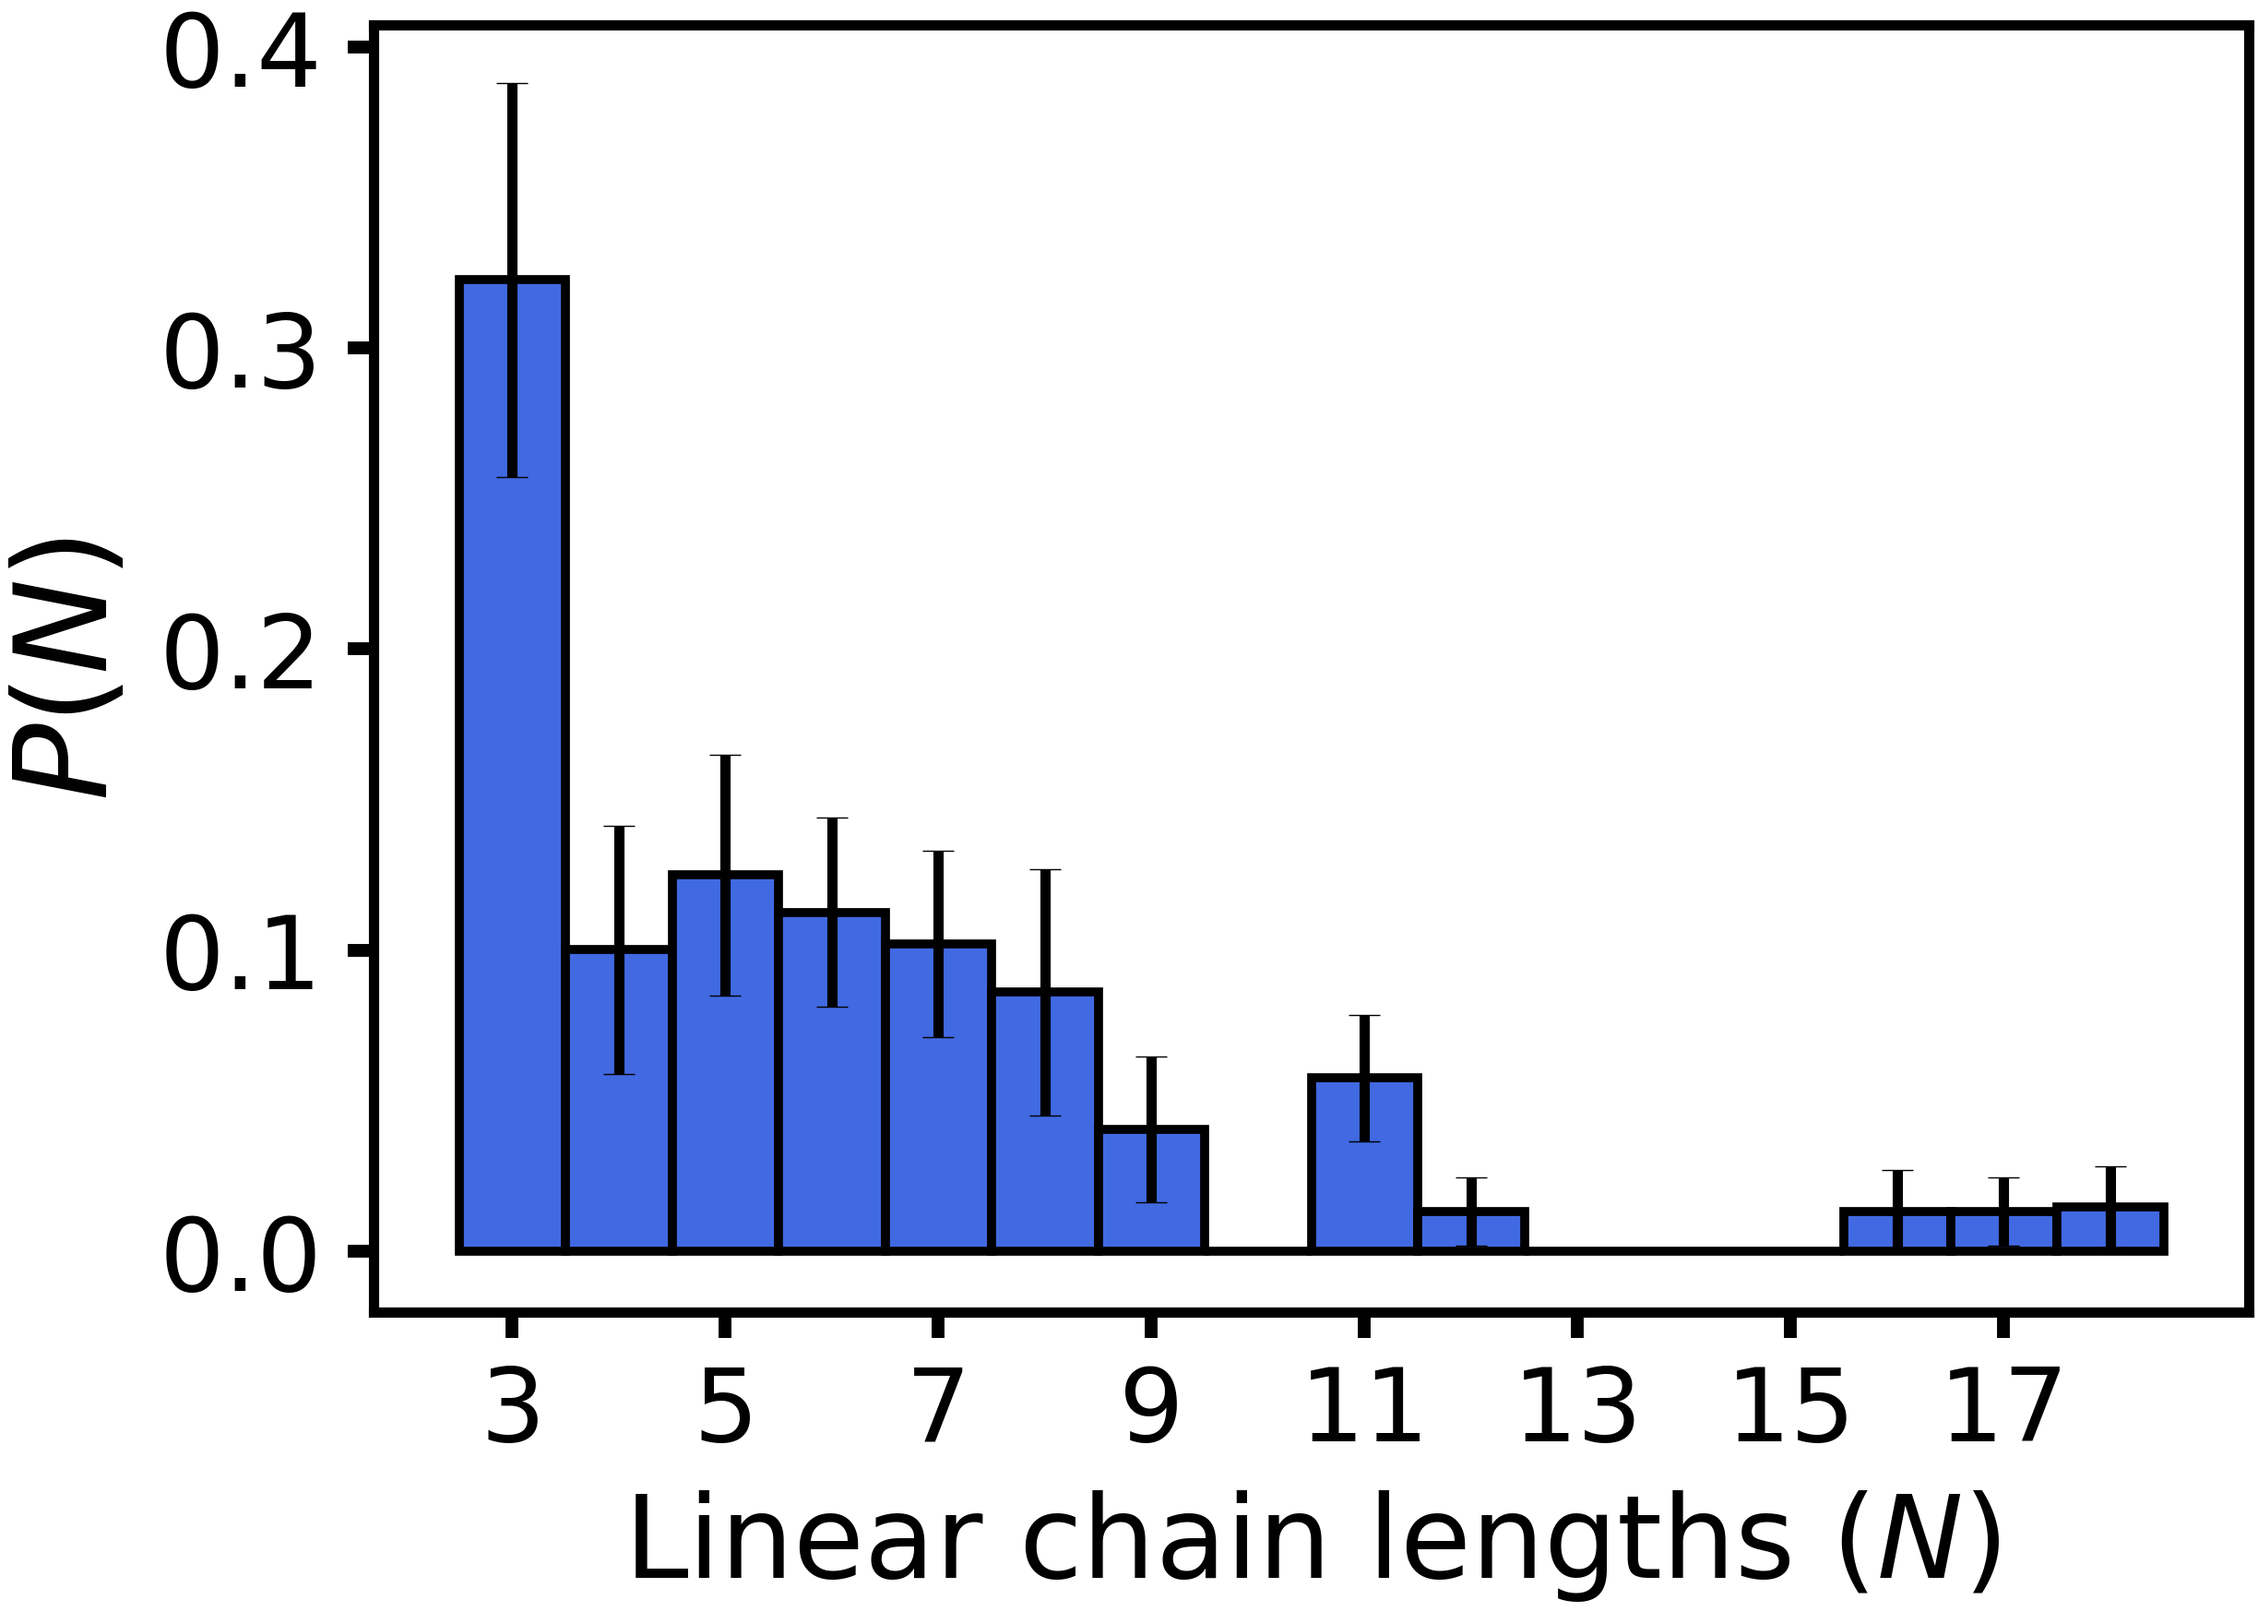
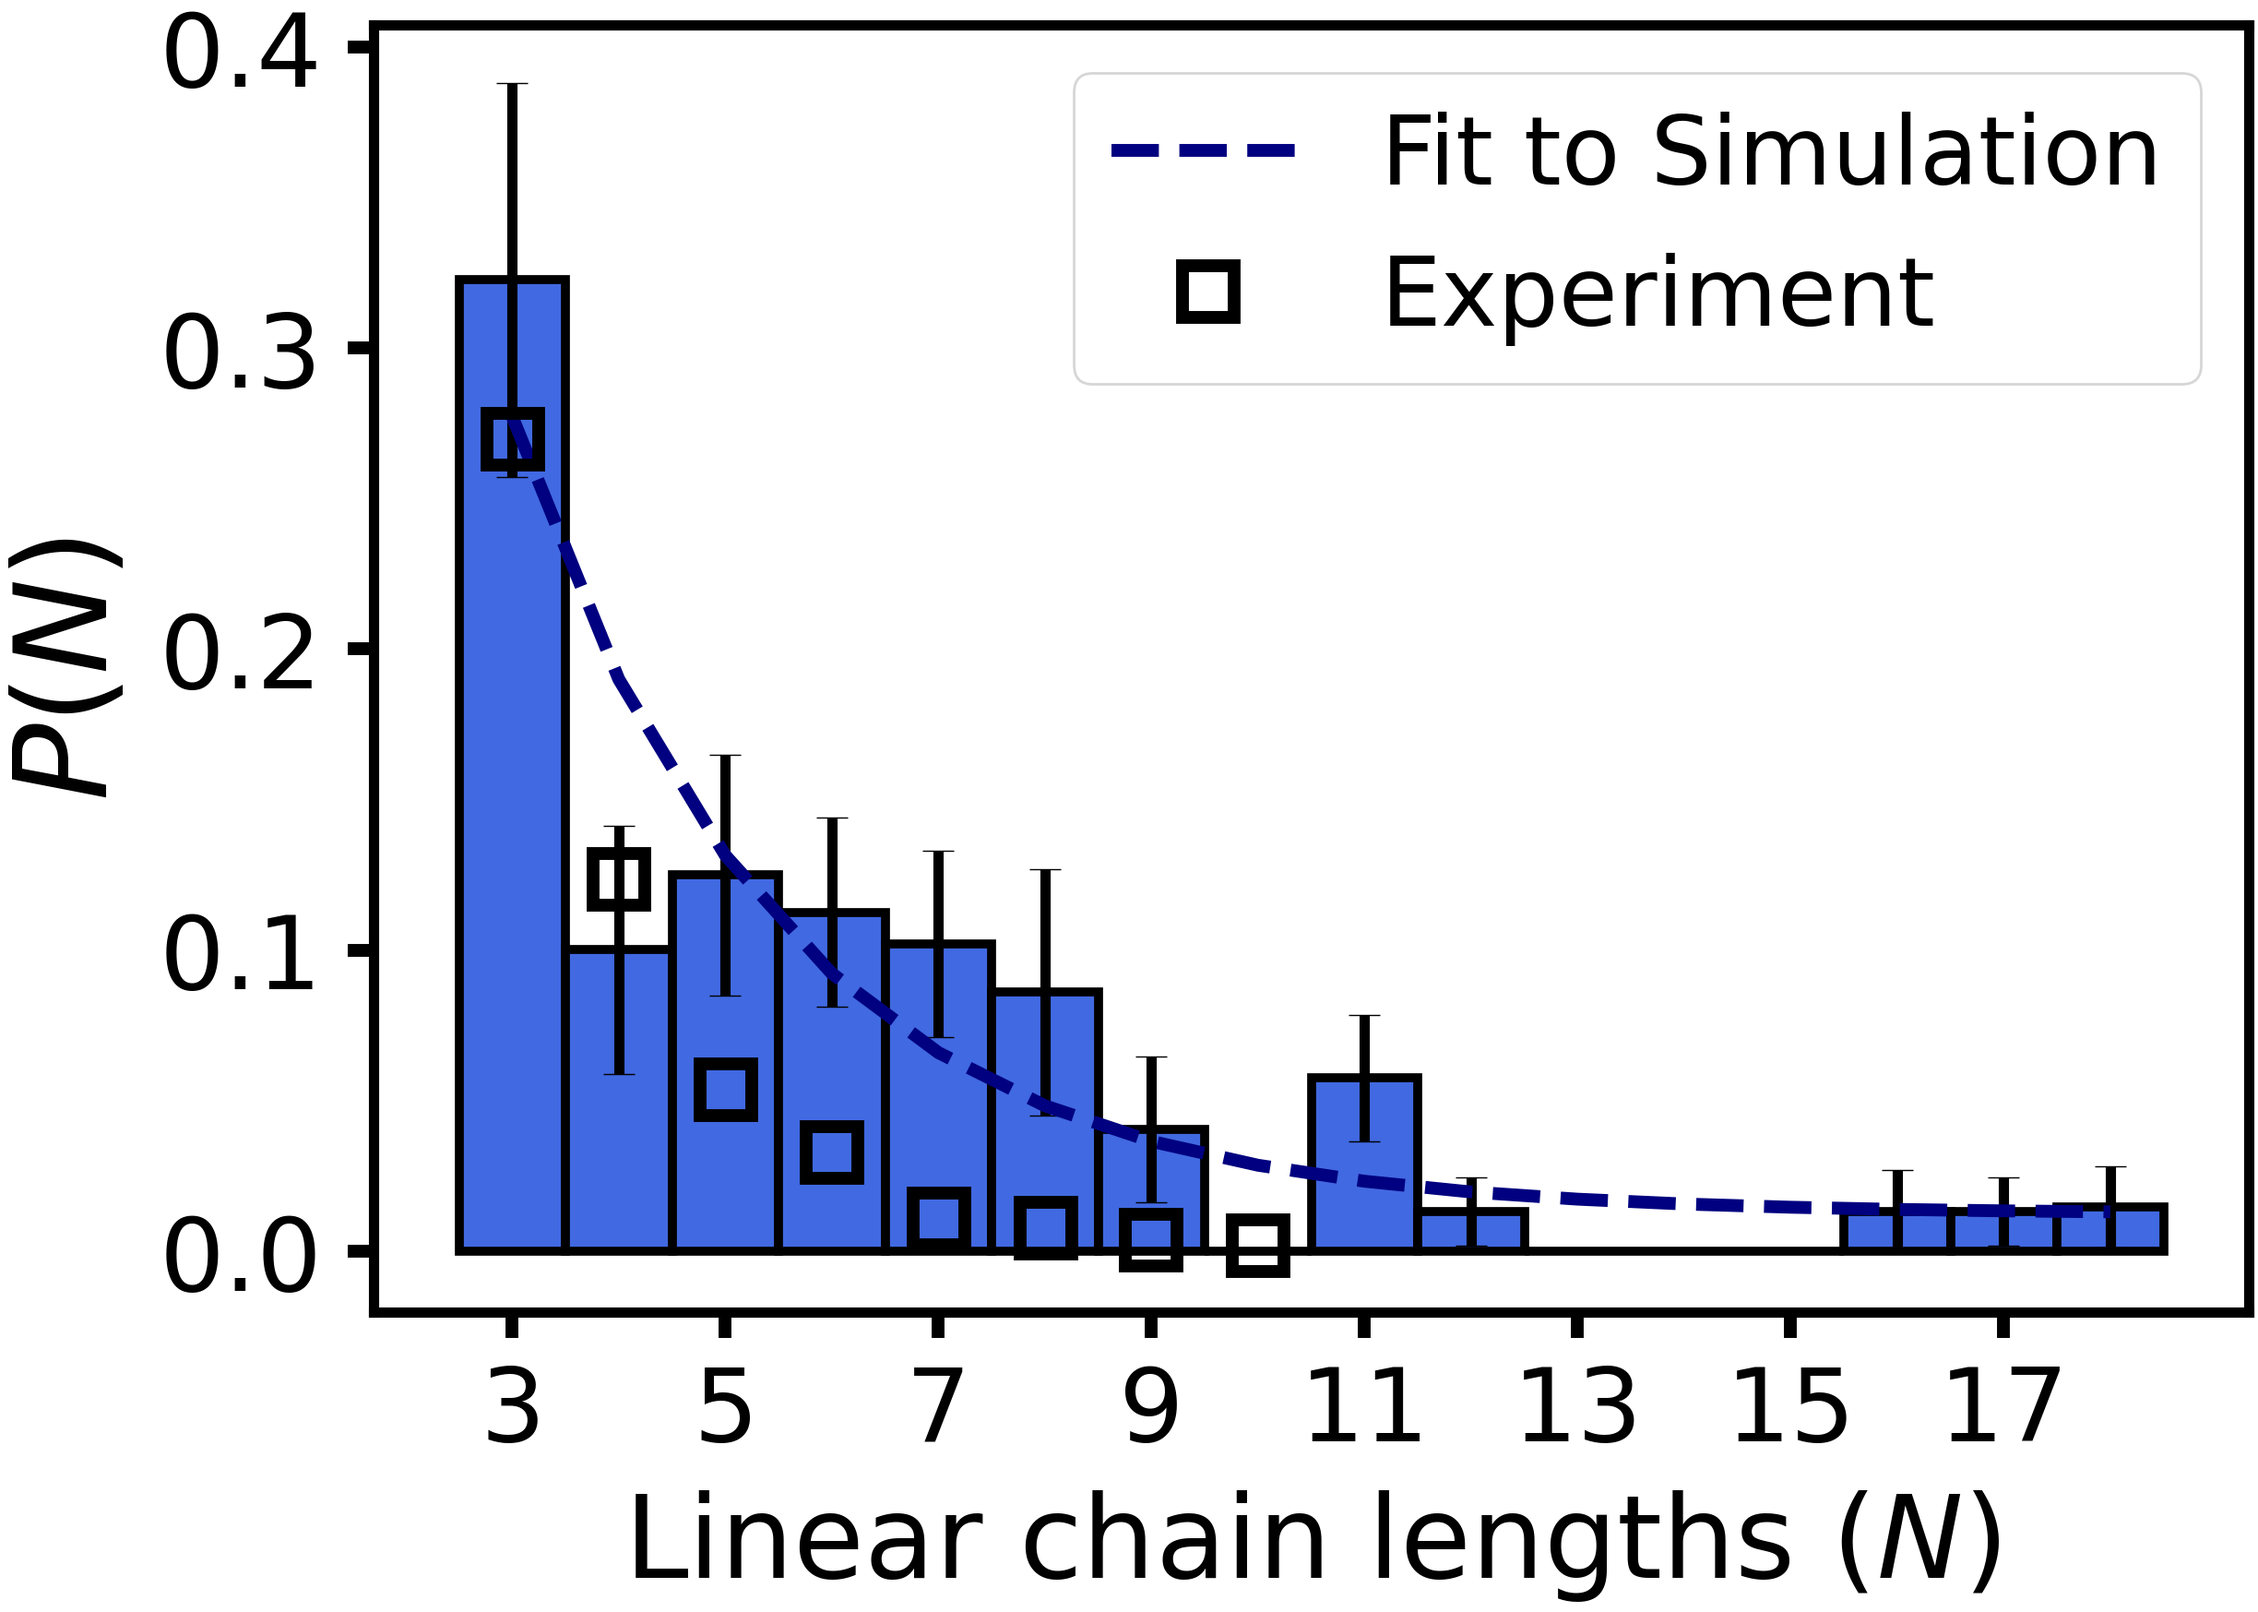
Added experimental data from PRL 2018 paper and modified the valence and chain length distributions to include expt data points too

diff --git a/lattice_of_droplets/analysis/plot_histogramofchainlengths.py b/lattice_of_droplets/analysis/plot_histogramofchainlengths.py
@@ -9,6 +9,7 @@ import sys
 import seaborn as sns
 sns.set_context("poster", font_scale=1.0)
 import argparse
+import pandas as pd
 from functions_cluster_analysis import *
 from scipy.optimize import curve_fit
 
@@ -44,11 +45,17 @@ chainsizes=data[0]
 mean_fractions_allchainsizes=data[1]
 stddev_fractions_allchainsizes=data[2]
 
-#Plotting the chain length distributions:
+#Load experimental chain length data from .csv file (for concentration of DNA = 0.3 pmol, McMullen et al. PRL 2018, Fig 3(a))
+csvfile=str(os.getcwd())+'/expt_data_PRL2018/chainlength_data_PRL2018.csv'
+df = pd.read_csv(csvfile,delimiter=' ')
+chainsizes_expt=df.iloc[:, 0].tolist()
+fractions_expt=df.iloc[:, 1].tolist()
+
+#Plotting the chain length distributions from simulation:
 fig,ax=plt.subplots(figsize=(25,18),dpi=100)
 plt.bar(chainsizes,mean_fractions_allchainsizes,yerr=stddev_fractions_allchainsizes,width = 1,color='royalblue',linewidth=7.0,error_kw={'elinewidth':8.0},ecolor="black",edgecolor="black",capsize=12)
 
-#fit to exponential function:
+#fit simulation data to exponential function:
 a=mean_fractions_allchainsizes[0]
 b=1/4
 c=0.0
@@ -58,7 +65,9 @@ a=popt[0]
 b=popt[1]
 c=popt[2]
 
-#plt.plot(chainsizes,func(chainsizes,*popt),linestyle='--',color='navy',linewidth=10.0)
+plt.plot(chainsizes,func(chainsizes,*popt),linestyle='--',color='navy',linewidth=10.0,label='Fit to Simulation')
+plt.plot(chainsizes_expt,fractions_expt,marker='s',markersize=40,linestyle='',markerfacecolor='none',markeredgecolor='k',label='Experiment',markeredgewidth=10.0)
+
 ax.set_xlabel('Linear chain lengths '+r'$(N)$',labelpad=20,fontsize=90)
 ax.set_ylabel(r'$P(N)$',labelpad=20,fontsize=100)
 for axis in ['top','bottom','left','right']:
@@ -66,6 +75,7 @@ for axis in ['top','bottom','left','right']:
 ax.tick_params(labelsize=80,axis='both', which='major', length=20, width=10, pad=20)
 plt.xticks(np.arange(3,np.max(chainsizes)+1,2),fontsize=80,fontweight='medium')
 plt.yticks(np.arange(0,np.max(mean_fractions_allchainsizes)+0.1,0.1),fontsize=80,fontweight='medium')
+plt.legend(loc='best',ncol=1,prop={'size': 75},fontsize=75)
 fig.tight_layout()
 plt.savefig('final_figures/histogram_chainlengths_Np'+str(Np)+'_R'+str(R)+'_areafrac'+str(areafraction)+'_gammaA'+str(gammaA)+'_eps'+str(epsilon)+'.png',bbox_inches='tight')
 plt.close()

diff --git a/lattice_of_droplets/analysis/plot_histogramsfinalframevalences.py b/lattice_of_droplets/analysis/plot_histogramsfinalframevalences.py
@@ -6,6 +6,7 @@ import matplotlib.pyplot as plt
 import glob 
 import sys
 import seaborn as sns
+import pandas as pd
 sns.set_context("poster", font_scale=1.0)
 import argparse
 
@@ -37,8 +38,15 @@ data=np.load(filename,allow_pickle=True)
 valences=data[0]
 fractions=data[1]
 
+#Load experimental valence data from .csv file (for concentration of DNA = 0.3 pmol, McMullen et al. PRL 2018 ,Fig 2(g))
+csvfile=str(os.getcwd())+'/expt_data_PRL2018/fraction_valence_data_PRL2018.csv'
+df = pd.read_csv(csvfile,delimiter=',')
+valences_expt=df['Valence'].tolist()
+fractions_expt=df['Fraction'].tolist()
+
 fig,ax=plt.subplots(figsize=(25,18),dpi=100)
 plt.bar(valences, fractions, width=0.5,color=['blue','darkorange','green','red','purple','brown'],edgecolor='black',linewidth=7.0)
+plt.plot(valences_expt,fractions_expt,marker='s',markersize=40,linestyle='',markerfacecolor='none',markeredgecolor='k',label='Experiment',markeredgewidth=7.0)
 plt.xlabel(r'$B_{n}$',labelpad=20,fontsize=100)
 plt.ylabel(r'$P(B_{n})|^{t=t^{\infty}}$',labelpad=20,fontsize=100)
 for axis in ['top','bottom','left','right']:
@@ -46,6 +54,7 @@ for axis in ['top','bottom','left','right']:
 ax.tick_params(labelsize=80,axis='both', which='major', length=20, width=10, pad=20)
 plt.yticks(np.arange(0,np.max(fractions)+0.1,0.1),fontsize=80,fontweight='medium')
 plt.xticks([0,1,2,3,4,5],fontsize=80,fontweight='medium')
+plt.legend(loc='best',ncol=1,prop={'size': 75},fontsize=75)
 fig.tight_layout()
 plt.savefig('final_figures/histogram_valences_Np'+str(Np)+'_R'+str(R)+'_areafrac'+str(areafraction)+'_gammaA'+str(gammaA)+'_eps'+str(epsilon)+'.png',bbox_inches='tight')
 plt.close()
